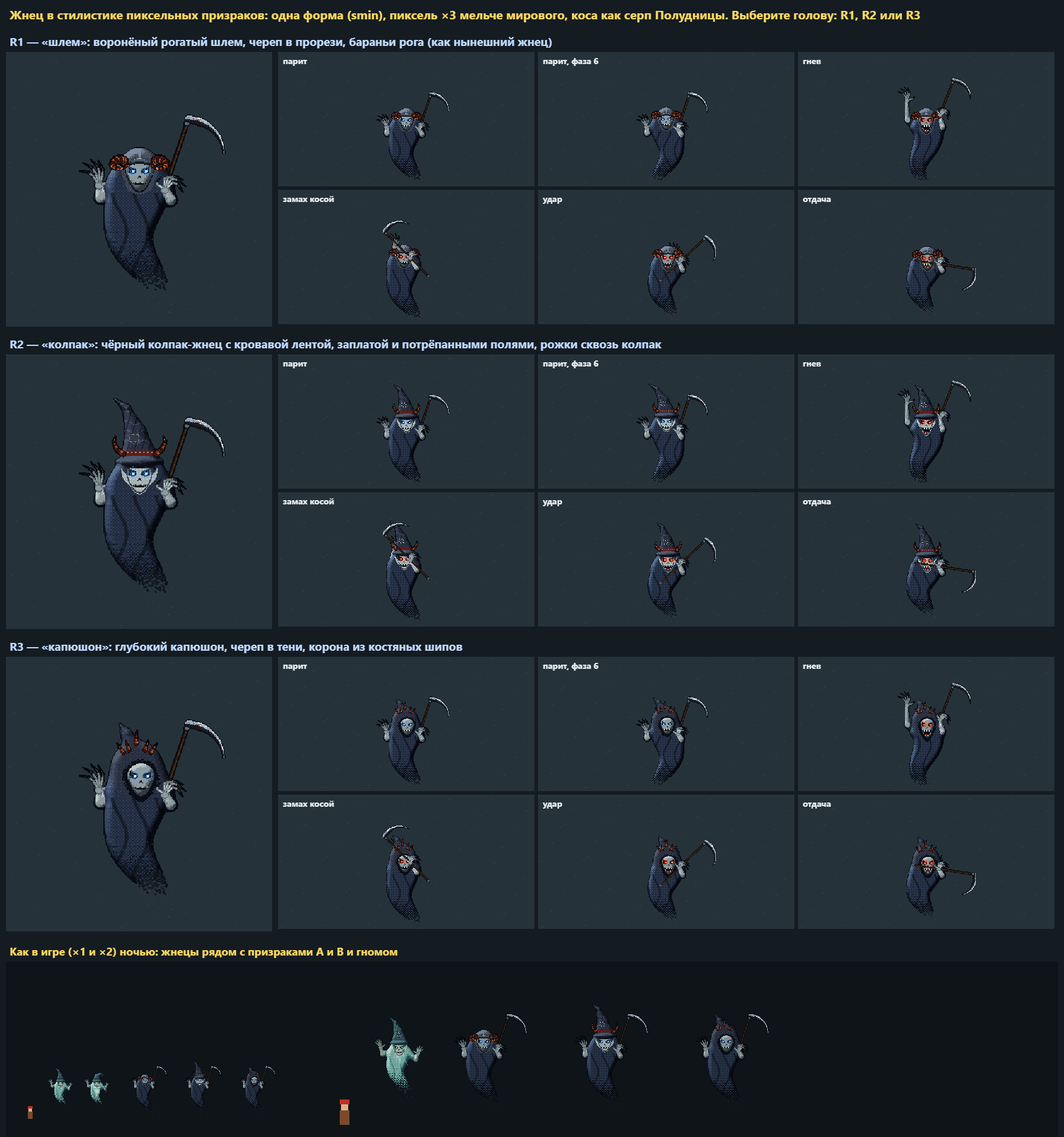
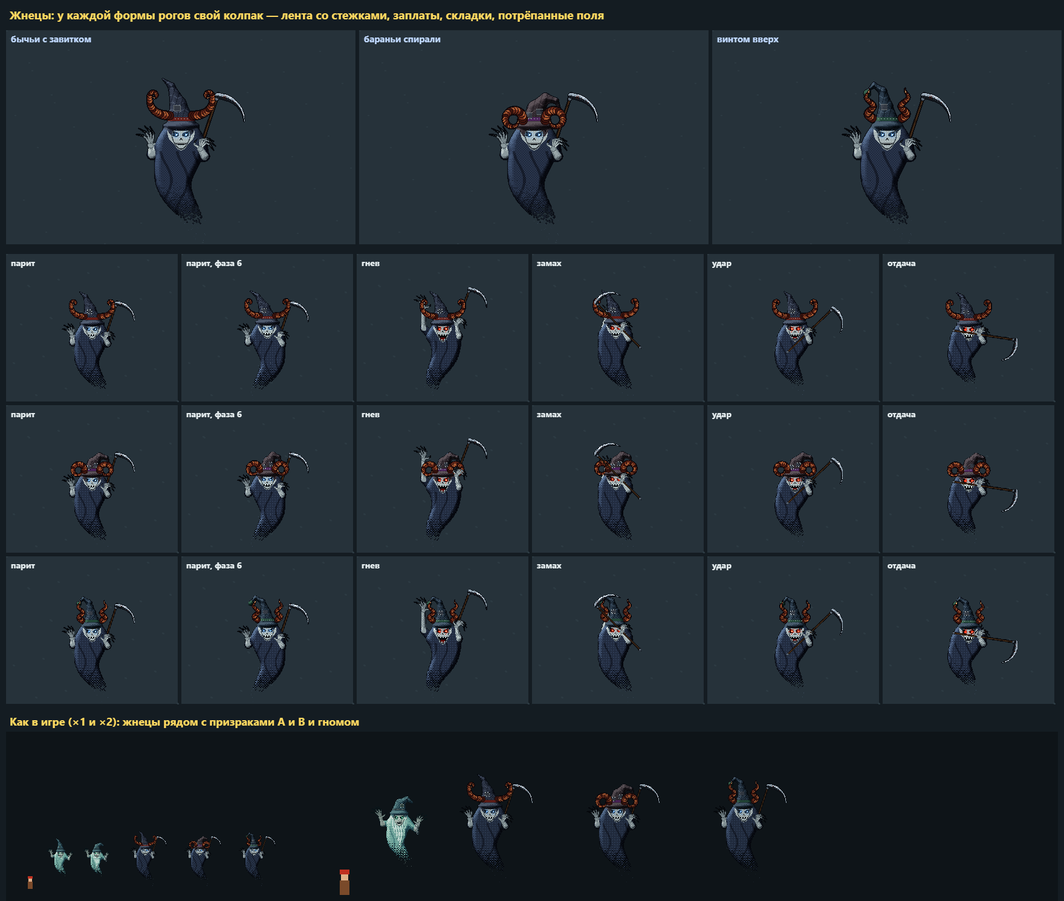
Жнецы в игре в пиксельном облике: у всех колпак, у каждой из трёх форм рогов свой (бычьи — высокий острый, бараньи — мягкий свисающий, винтом — с крюком и помпоном); бараньи спирали разогнуты; шлем без перегородки остался только в коде листа

diff --git a/js/world/reaperpx.js b/js/world/reaperpx.js
@@ -8,7 +8,8 @@
 //   R2 — «колпак»: высокий чёрный колпак-жнец с лентой, заплатой и потрёпанными полями (как у призраков), рожки сквозь колпак;
 //   R3 — «капюшон»: глубокий капюшон, череп в тени, над ним — корона из костяных шипов.
 // mood: 'idle' | 'boo' | 'atk'; p — фаза парения 0..1; k — ход взмаха 0..1 (замах 0–.35, удар .35–.6, отдача).
-// Пока только лист на согласование: в index.html не подключён.
+// Владелец выбрал: у всех жнецов колпак (R2), у каждой из трёх форм рогов (g.var) — свой колпак; шлем R1 и капюшон R3 не в игре.
+// В игре рисуется из drawGhosts (ghosts.js), R3 пока не в игре.
 
 const RPX = {
   RB: [[4, 6, 12], [10, 14, 24], [20, 26, 40], [34, 44, 64], [56, 72, 100], [90, 114, 148]],      // ряса: чёрно-синяя, холодный край
@@ -16,6 +17,10 @@ const RPX = {
   HM: [[6, 8, 12], [20, 24, 32], [42, 48, 60], [72, 82, 98], [124, 140, 160]],                    // шлем: воронёный
   CAP: [[6, 8, 14], [16, 20, 30], [30, 36, 50], [50, 58, 76], [80, 92, 112]],
   BAND: [[30, 6, 8], [64, 14, 14], [100, 28, 22], [140, 48, 34]],                                  // лента на колпаке — запёкшаяся кровь
+  BAND2: [[22, 8, 30], [46, 18, 58], [76, 34, 90], [110, 60, 124]],                                // лиловая
+  BAND3: [[8, 22, 18], [18, 44, 36], [34, 70, 56], [58, 100, 80]],                                  // тёмно-зелёная
+  CAP2: [[10, 8, 10], [22, 18, 22], [38, 32, 38], [60, 52, 58], [92, 82, 88]],                     // бурая чернь
+  CAP3: [[4, 8, 12], [12, 20, 28], [24, 36, 48], [42, 58, 74], [72, 92, 110]],                      // сине-чёрный
   PATCH: [[18, 20, 26], [32, 36, 44], [52, 58, 68], [78, 86, 98]],
   HORN: [[24, 8, 8], [60, 20, 14], [110, 44, 26], [170, 90, 50], [230, 170, 110]],
   VO: [[2, 4, 8], [8, 12, 20], [16, 22, 34]],
@@ -26,7 +31,7 @@ const RPX = {
   EDGE: [2, 4, 10],
 };
 
-function reaperPx(v, mood, p = 0, k = 0) {
+function reaperPx(v, mood, p = 0, k = 0, hv = 0) {
   const K = fzPxKit(243, 309, 120, 129), { P, R, L, dth, hsh } = K, TAU = Math.PI * 2, { RB, BO, VO, IR, WD, CL } = RPX;
   const atk = mood === 'atk', boo = mood === 'boo' || atk;
   const sn = (m, o = 0) => Math.sin(p * TAU * m + o), sm = x => x * x * (3 - 2 * x);
@@ -41,6 +46,18 @@ function reaperPx(v, mood, p = 0, k = 0) {
     return (Math.hypot(dx, dy) - 1) * 12;
   };
   const ell = DS_ell, cap = DS_cap, tip = sn(1, 0.6) * 7 + lean * 0.4;
+  // колпак жнеца — свой у каждой формы рогов (образец — колпаки призраков: лента со стежками, заплата, складки, потрёпанные поля):
+  //  hv 2 бычьи с завитком — высокий острый, кончик загнут назад, кровавая лента;
+  //  hv 0 бараньи спирали — мягкий, кончик свисает вперёд, широкие поля, лиловая лента, две заплаты;
+  //  hv 1 винтом вверх — узкий, между рогами, кончик крюком назад и вниз, помпон, тёмно-зелёная лента
+  const CP = [
+    { cone: [[HX, HY - 14, 25], [HX + 3, HY - 40, 14], [HX + 16 + tip * 0.6, HY - 58, 8], [HX + 32 + tip, HY - 54, 4], [HX + 38 + tip, HY - 42, 1.5]], brim: 33,
+      patch: [[HX + 9, HY - 36], [HX - 9, HY - 30]], band: RPX.BAND2, fab: RPX.CAP2 },
+    { cone: [[HX, HY - 15, 21], [HX - 3 + tip * 0.2, HY - 44, 11], [HX - 10 + tip * 0.6, HY - 70, 6], [HX - 26 + tip, HY - 80, 3.5], [HX - 36 + tip, HY - 70, 2]], brim: 26,
+      patch: [[HX - 5, HY - 44]], band: RPX.BAND3, fab: RPX.CAP3, bob: [HX - 37 + tip, HY - 66] },
+    { cone: [[HX, HY - 15, 24], [HX - 6 + tip * 0.3, HY - 48, 13], [HX - 20 + tip, HY - 78, 5], [HX - 36 + tip * 1.5, HY - 90, 1]], brim: 30,
+      patch: [[HX - 7 + tip * 0.15, HY - 42]], band: RPX.BAND, fab: RPX.CAP },
+  ][hv];
 
   // ---- ось рясы: плечи → длинный хвост
   const tailLen = 150 - 20 * strike, N = 14, spine = [];
@@ -121,10 +138,11 @@ function reaperPx(v, mood, p = 0, k = 0) {
     parts.push({ f: (x, y) => Math.max(faceF(x, y), HY - 9 - y) - 1, mat: 'void', zone: true });
   } else if (v === 'R2') {
     parts.push({ f: ell(HX, HY - 2, 22, 22), mat: 'bo', k: 6 }, { f: faceF, mat: 'bo', k: 4 });
-    parts.push(...DS_chain([[HX, HY - 15, 24], [HX - 6 + tip * 0.3, HY - 48, 13], [HX - 20 + tip, HY - 78, 5], [HX - 36 + tip * 1.5, HY - 90, 1]], { mat: 'cap', k: 3 }));
-    parts.push({ f: ell(HX, HY - 12, 30, 9), mat: 'cap', k: 2, front: true, fw: 3 });
-    parts.push({ f: (x, y) => Math.max(DS_ell(HX, HY - 15, 25, 40)(x, y), Math.abs(y - HY + 24) - 3), mat: 'band', zone: true });
-    parts.push({ f: (x, y) => Math.max(Math.abs(x - HX + 7 - tip * 0.15) - 6, Math.abs(y - HY + 42) - 5), mat: 'patch', zone: true });
+    parts.push(...DS_chain(CP.cone, { mat: 'cap', k: 3 }));
+    parts.push({ f: ell(HX, HY - 12, CP.brim, 9), mat: 'cap', k: 2, front: true, fw: 3 });
+    parts.push({ f: (x, y) => Math.max(DS_ell(HX, HY - 15, 26, 40)(x, y), Math.abs(y - HY + 24) - 3), mat: 'band', zone: true });
+    for (const [px, py] of CP.patch) parts.push({ f: (x, y) => Math.max(Math.abs(x - px) - 6, Math.abs(y - py) - 5), mat: 'patch', zone: true });
+    if (CP.bob) parts.push({ f: ell(CP.bob[0], CP.bob[1], 6, 6), mat: 'band', k: 2, front: true, fw: 3 });
     parts.push({ f: (x, y) => Math.max(faceF(x, y), HY - 5 - y), mat: 'bo', zone: true });
   } else {
     parts.push({ f: ell(HX - 3, HY - 5, 33, 36), mat: 'cap', k: 9 });
@@ -141,41 +159,45 @@ function reaperPx(v, mood, p = 0, k = 0) {
     }
     if (mat === 'cap' && v === 'R3') { const d = faceF(x, y); if (d > 0 && d < 6 && hsh(Math.floor(x / 2) + y * 0.3) > 0.55) return ramp[0]; }
     if (mat === 'band') return Math.round(cy + 24) === 0 && ((x + 60) % 5) < 2 ? BO[2] : null;
-    if (mat === 'patch') { const ex = Math.abs(x - HX + 7 - tip * 0.15), ey = Math.abs(y - HY + 42); return ex > 5 || ey > 4 ? (((x + y) & 1) ? BO[3] : ramp[0]) : null; }
-    if (mat === 'hm') {                                                                // шлем: гребень посередине, заклёпки по ободу
-      if (Math.abs(cx) < 1.5 && cy < -10) return ramp[Math.min(ramp.length - 1, idx + 1)];
+    if (mat === 'patch') { const [px, py] = CP.patch.reduce((a, q) => Math.hypot(x - q[0], y - q[1]) < Math.hypot(x - a[0], y - a[1]) ? q : a), ex = Math.abs(x - px), ey = Math.abs(y - py); return ex > 5 || ey > 4 ? (((x + y) & 1) ? BO[3] : ramp[0]) : null; }
+    if (mat === 'hm') {                                                                // шлем: заклёпки по ободу
       if (Math.abs(cy + 8) < 1 && Math.abs(cx) > 12 && Math.abs(cx) < 20 && (x & 3) === 0) return RPX.IR[3];
     }
     return null;
   };
-  DS_body(K, parts, { rb: RB, bo: BO, cap: RPX.CAP, band: RPX.BAND, patch: RPX.PATCH, hm: RPX.HM, void: VO }, { bb: [-120, -128, 121, 179], W: 10, k: 6, amb: 0.14, mat: 'rb', cut, tex });
+  DS_body(K, parts, { rb: RB, bo: BO, cap: CP.fab, band: CP.band, patch: RPX.PATCH, hm: RPX.HM, void: VO }, { bb: [-120, -128, 121, 179], W: 10, k: 6, amb: 0.14, mat: 'rb', cut, tex });
 
   // ---- череп в прорези шлема (R1) или в глубине капюшона (R3)
   if (v !== 'R2') DS_body(K, [{ f: ell(FX, FY - 4, 15, 13), mat: 'bo' }, { f: faceF, mat: 'bo', k: 4 }],
     { bo: BO.slice(0, 4) }, { bb: [-50, -50, 50, 60], W: 6, k: 4, amb: 0.1, mat: 'bo' });
-  if (v === 'R1') R(FX - 26, HY - 26, FX + 26, HY - 6, (x, y) => {                     // нахмуренный козырёк шлема поверх черепа
-    const d = ell(HX, HY - 2, 23, 25)(x, y);
-    return d < 0 && y < HY - 7 + Math.abs(x - HX) * 0.18 && y > HY - 13 + Math.abs(x - HX) * 0.18 ? (y < HY - 10 + Math.abs(x - HX) * 0.18 ? RPX.HM[3] : RPX.HM[1]) : null;
-  });
   // кромка лица
   R(FX - 22, HY - 8, FX + 22, FY + 32 + drop, (x, y) => { const d = faceF(x, y); return d > -1.2 && d <= 0 && y > HY - 6 ? BO[0] : null; });
 
-  // ---- рога: R1 — бараньи, загнутые к щекам; R2 — короткие рожки сквозь колпак; R3 — корона костяных шипов
+  // ---- рога: три формы (hv, как g.var у векторного жнеца) — 0 бараньи спирали, 1 винтом вверх, 2 бычьи с завитком на конце;
+  // у шлема (R1) крупные, у колпака (R2) торчат сквозь колпак и закручены сильнее; R3 — корона костяных шипов
   const horn = (pts, r0) => {
     const H = RPX.HORN, n = pts.length - 1;
-    K.path(pts.map((q, i) => [q[0], q[1], r0 * Math.pow(1 - i / n, 0.8) + 0.4]), (t, e, sd) => e ? H[0] : (Math.floor(t * 18) % 3 === 0 ? H[1] : t > 0.8 ? H[4] : sd > 0 ? H[2] : H[3]));
+    K.path(pts.map((q, i) => [q[0], q[1], r0 * Math.pow(1 - i / n, 0.75) + 0.5]), (t, e, sd) => e ? H[0] : (Math.floor(t * 22) % 3 === 0 ? H[1] : t > 0.82 ? H[4] : sd > 0 ? H[2] : H[3]));
   };
+  const curl = v === 'R2' ? 1.45 : 1, HS = v === 'R2' ? 1.1 : 1.25;                    // закрут и размер
   for (const s of [-1, 1]) {
-    if (v === 'R1') {
-      const b = [HX + s * 20, HY - 10], pts = [];
-      for (let i = 0; i <= 14; i++) { const t = i / 14, a = -Math.PI / 2 + s * (0.3 + t * 4.2), r = 10 + t * 10; pts.push([b[0] + s * 14 * t + Math.cos(a) * r * t * 1.2, b[1] - 4 * t + Math.sin(a) * r * t]); }
-      horn(pts, 6.5);
-    } else if (v === 'R2') {
-      const b = [HX + s * 20, HY - 22];
-      horn([b, [b[0] + s * 8, b[1] - 6], [b[0] + s * 12, b[1] - 15], [b[0] + s * 10, b[1] - 22]], 3.6);
-    } else for (const j of [0.7, 1.2]) {
-      const a = -Math.PI / 2 + s * j * 0.5, b = [HX - 3 + s * j * 14, HY - 34 + j * 6];
-      horn([b, [b[0] + Math.cos(a) * 7, b[1] + Math.sin(a) * 7], [b[0] + Math.cos(a) * 14, b[1] + Math.sin(a) * 14]], 2.8);
+    if (v === 'R3') {
+      for (const j of [0.7, 1.2]) { const a = -Math.PI / 2 + s * j * 0.5, b = [HX - 3 + s * j * 14, HY - 34 + j * 6]; horn([b, [b[0] + Math.cos(a) * 7, b[1] + Math.sin(a) * 7], [b[0] + Math.cos(a) * 14, b[1] + Math.sin(a) * 14]], 2.8); }
+      continue;
+    }
+    const b = v === 'R1' ? [HX + s * 19, HY - 9] : [HX + s * 19, HY - 25], pts = [];
+    if (hv === 0) {                                                                     // баранья спираль: вверх, наружу и вниз к щеке, тугой завиток
+      const c0 = [b[0] + s * 13 * HS, b[1] + 3 * HS], th0 = s > 0 ? Math.PI : 0, r0 = Math.hypot(b[0] - c0[0], b[1] - c0[1]);
+      for (let i = 0; i <= 26; i++) { const t = i / 26, th = th0 + s * t * Math.PI * 2 * (v === 'R2' ? 1.05 : 1.15), r = r0 * (1 - 0.55 * t) + 6 * HS * Math.sin(t * Math.PI) * (1 - t); pts.push([c0[0] + Math.cos(th) * r, c0[1] + Math.sin(th) * r]); }
+      horn(pts, 7 * HS);
+    } else if (hv === 1) {                                                              // винтом вверх: высокие, витые
+      for (let i = 0; i <= 22; i++) { const t = i / 22; pts.push([b[0] + s * (5 + 8 * t + Math.sin(t * Math.PI * 2.5 * curl) * 6 * (1 - t * 0.5)) * HS, b[1] - 46 * t * HS]); }
+      horn(pts, 6 * HS);
+    } else {                                                                            // бычьи: вбок, вверх и завиток внутрь на конце
+      for (let i = 0; i <= 14; i++) { const t = i / 14; pts.push([b[0] + s * (30 * Math.sin(t * Math.PI * 0.55)) * HS, b[1] - (4 + 30 * t * t) * HS]); }
+      const e = pts[pts.length - 1], c0 = [e[0] - s * 6 * HS, e[1]];
+      for (let i = 1; i <= 12; i++) { const t = i / 12, th = (s > 0 ? 0 : Math.PI) - s * t * Math.PI * 1.3 * curl, r = 6 * HS * (1 - 0.6 * t); pts.push([c0[0] + Math.cos(th) * r, c0[1] + Math.sin(th) * r]); }
+      horn(pts, 6.5 * HS);
     }
   }
   if (v === 'R3') horn([[HX - 4, HY - 38], [HX - 4, HY - 46], [HX - 3, HY - 54]], 3);
@@ -218,6 +240,21 @@ function reaperPx(v, mood, p = 0, k = 0) {
   K.outline(RPX.EDGE);
   return K.done();
 }
-function reaperPxSprite(v, mood, f, n) {
-  return fzPxSprite('rp' + v + mood + f + '_' + n, 81, 103, 40, 43, () => reaperPx(v, mood, mood === 'atk' ? 0 : f / n, mood === 'atk' ? f / (n - 1) : 0));
+// Кадры: парение 12 (10 к/с, как у призраков), гнев 9, взмах косой 9. hv — форма рогов 0..2.
+const RPX_N = { idle: 12, boo: 9, atk: 9 };
+function reaperPxSprite(v, mood, f, n = RPX_N[mood], hv = 0) {
+  f = Math.max(0, Math.min(n - 1, f | 0));
+  return fzPxSprite('rp' + v + mood + f + '_' + n + 'h' + hv, 81, 103, 40, 43, () => reaperPx(v, mood, mood === 'atk' ? 0 : f / n, mood === 'atk' ? f / (n - 1) : 0, hv));
+}
+// кадр для игры по бюджету новых спрайтов (как ghostPxFrame)
+const RPX_LAST = new WeakMap();
+function reaperPxFrame(g, v, mood, f, hv) {
+  f = Math.max(0, Math.min(RPX_N[mood] - 1, f | 0));
+  const have = FZ_CVC['rp' + v + mood + f + '_' + RPX_N[mood] + 'h' + hv], last = RPX_LAST.get(g);
+  if (have) { RPX_LAST.set(g, have); return have; }
+  if (last && typeof spriteBudgetOk === 'function' && !spriteBudgetOk(true)) return last;
+  const t0 = performance.now(), cv = reaperPxSprite(v, mood, f, RPX_N[mood], hv);
+  if (typeof spriteSpent === 'function') spriteSpent(t0);
+  RPX_LAST.set(g, cv);
+  return cv;
 }

diff --git a/tools/pxghost/reaper.html b/tools/pxghost/reaper.html
@@ -7,42 +7,39 @@
 <script src="../../js/world/ghostpx.js"></script>
 <script src="../../js/world/reaperpx.js"></script>
 <script>
-// Лист согласования жнеца в стилистике пиксельных призраков: три головы (R1 шлем, R2 колпак, R3 капюшон), крупно ×4 и позы ×2,
-// внизу — рядом с призраками A и B и гномом. Снимок: node tools/pxghost/shot.js out.png reaper.html
+// Лист жнецов: у всех колпак, у каждой формы рогов свой (0 бараньи спирали — мягкий свисающий, 1 винтом вверх — с крюком и помпоном,
+// 2 бычьи с завитком — высокий острый). Крупно ×3, ниже позы всех троих ×2 и масштаб как в игре. Снимок: node tools/pxghost/shot.js out.png reaper.html
 try {
-const VS = [['R1', 'R1 — «шлем»: воронёный рогатый шлем, череп в прорези, бараньи рога (как нынешний жнец)'],
-  ['R2', 'R2 — «колпак»: чёрный колпак-жнец с кровавой лентой, заплатой и потрёпанными полями, рожки сквозь колпак'],
-  ['R3', 'R3 — «капюшон»: глубокий капюшон, череп в тени, корона из костяных шипов']];
-const POSES = [['idle', 0, 'парит'], ['idle', 6, 'парит, фаза 6'], ['boo', 3, 'гнев'], ['atk', 2, 'замах косой'], ['atk', 4, 'удар'], ['atk', 7, 'отдача']];
-const W = 1760, RH = 500, cv = document.getElementById('cv');
-cv.width = W; cv.height = 50 + VS.length * RH + 330;
+const HN = ['бараньи спирали', 'винтом вверх', 'бычьи с завитком'];
+const W = 1760, cv = document.getElementById('cv');
+cv.width = W; cv.height = 50 + 360 + 3 * 250 + 330;
 const c = cv.getContext('2d'); c.imageSmoothingEnabled = false;
 c.fillStyle = '#141c22'; c.fillRect(0, 0, W, cv.height);
 const T = (s, x, y, sz = 20, col = '#e6eef0') => { c.fillStyle = col; c.font = `bold ${sz}px Segoe UI, sans-serif`; c.fillText(s, x, y); };
 const cell = (x, y, w, h) => { c.fillStyle = '#26323a'; c.fillRect(x, y, w, h); c.fillStyle = '#2c3a42'; for (let i = 0; i < 50; i++) c.fillRect(x + (i * 37 % w), y + (i * 53 % h), 3, 2); };
 const put = (spr, x, y, Z, a = 1) => { const [ox, oy, w, h] = spr.fzO; c.save(); c.globalAlpha = a; c.imageSmoothingEnabled = false; c.translate(x, y); c.drawImage(spr, -ox * Z, -oy * Z, w * Z, h * Z); c.restore(); };
-const R = (v, m, f) => reaperPxSprite(v, m, f, m === 'atk' ? 9 : 12);
-T('Жнец в стилистике пиксельных призраков: одна форма (smin), пиксель ×3 мельче мирового, коса как серп Полудницы. Выберите голову: R1, R2 или R3', 16, 32, 20, '#ffd860');
-VS.forEach(([v, name], r) => {
-  const y0 = 50 + r * RH;
-  T(name, 16, y0 + 26, 19, '#bfd8ff');
-  cell(10, y0 + 36, 440, 454); put(R(v, 'idle', 0), 230, y0 + 36 + 43 * 4 + 20, 4);
-  POSES.forEach(([m, f, n], i) => {
-    const x = 460 + (i % 3) * 430, y = y0 + 36 + Math.floor(i / 3) * 228;
-    cell(x, y, 424, 222); T(n, x + 8, y + 20, 14); put(R(v, m, f), x + 212, y + 20 + 43 * 2 + 4, 2);
-  });
+const R = (v, m, f, hv) => reaperPxSprite(v, m, f, RPX_N[m], hv);
+T('Жнецы: у каждой формы рогов свой колпак — лента со стежками, заплаты, складки, потрёпанные поля', 16, 32, 19, '#ffd860');
+[2, 0, 1].forEach((hv, i) => {
+  const x = 10 + i * 584, y = 50;
+  cell(x, y, 578, 354); T(HN[hv], x + 8, y + 20, 15, '#bfd8ff'); put(R('R2', 'idle', 0, hv), x + 289, y + 30 + 43 * 3 + 10, 3);
 });
-const yb = 50 + VS.length * RH + 10;
-T('Как в игре (×1 и ×2) ночью: жнецы рядом с призраками A и B и гномом', 16, yb + 20, 18, '#ffd860');
+const POSES = [['idle', 0, 'парит'], ['idle', 6, 'парит, фаза 6'], ['boo', 3, 'гнев'], ['atk', 2, 'замах'], ['atk', 4, 'удар'], ['atk', 8, 'отдача']];
+[['R2', 2], ['R2', 0], ['R2', 1]].forEach(([v, hv], r) => POSES.forEach(([m, f, n], i) => {
+  const x = 10 + i * 290, y = 420 + r * 250;
+  cell(x, y, 284, 244); T(n, x + 8, y + 20, 14); put(R(v, m, f, hv), x + 142, y + 30 + 43 * 2 + 6, 2);
+}));
+const yb = 420 + 3 * 250 + 10;
+T('Как в игре (×1 и ×2): жнецы рядом с призраками A и B и гномом', 16, yb + 20, 18, '#ffd860');
 c.fillStyle = '#0e1418'; c.fillRect(10, yb + 30, W - 20, 290);
 const gn = (x, yy, Z) => { c.fillStyle = '#7a4a2a'; c.fillRect(x - 4 * Z, yy - 12 * Z, 8 * Z, 12 * Z); c.fillStyle = '#e0b088'; c.fillRect(x - 3 * Z, yy - 17 * Z, 6 * Z, 5 * Z); c.fillStyle = '#c03020'; c.fillRect(x - 4 * Z, yy - 21 * Z, 8 * Z, 4 * Z); };
 let x = 50;
 gn(x, yb + 290, 1); x += 50;
 put(ghostPxSprite('A', 'idle', 0), x, yb + 230, 1, 0.85); x += 60; put(ghostPxSprite('B', 'idle', 0), x, yb + 230, 1, 0.85); x += 80;
-for (const [v] of VS) { put(R(v, 'idle', 0), x, yb + 225, 1, 0.9); x += 90; }
+for (const [v, hv] of [['R2', 2], ['R2', 0], ['R2', 1]]) { put(R(v, 'idle', 0, hv), x, yb + 225, 1, 0.9); x += 90; }
 x += 60; gn(x, yb + 300, 2); x += 90;
-put(ghostPxSprite('A', 'idle', 0), x, yb + 170, 2, 0.85); x += 140;
-for (const [v] of VS) { put(R(v, 'idle', 0), x, yb + 160, 2, 0.9); x += 200; }
+put(ghostPxSprite('B', 'idle', 0), x, yb + 170, 2, 0.85); x += 150;
+for (const [v, hv] of [['R2', 2], ['R2', 0], ['R2', 1]]) { put(R(v, 'idle', 0, hv), x, yb + 160, 2, 0.9); x += 210; }
 document.title = 'ready';
 } catch (e) { document.title = 'fail ' + e.message + ' ' + e.stack; }
 </script>

diff --git a/js/world/ghosts.js b/js/world/ghosts.js
@@ -433,7 +433,14 @@ function drawGhosts(c) {
     c.translate(px, py); c.scale(g.face, 1);
     c.globalAlpha = A;
     c.imageSmoothingEnabled = true;
-    if (rp) blitFine(c, reaperSprite(mood === 'atk' ? 'atk' : mood === 'boo' ? 'boo' : 'idle', atk ? Math.min(REAPER_ATK_FRAMES - 1, Math.floor(g.atkT / GHOST_ATK_DUR * REAPER_ATK_FRAMES)) : Math.floor(t * 8 + g.ph * 1.27) % REAPER_FRAMES, g.var || 0), -GHOST_OX * REAPER_SC, -GHOST_OY * REAPER_SC, GHOST_W * REAPER_SC, GHOST_H * REAPER_SC);
+    if (rp && typeof reaperPxFrame === 'function') {
+      // пиксельный жнец (reaperpx.js): рога — одна из трёх форм g.var, у каждой свой колпак
+      const rm = atk ? 'atk' : mood === 'boo' ? 'boo' : 'idle';
+      const rf = atk ? Math.floor(g.atkT / GHOST_ATK_DUR * RPX_N.atk) : Math.floor(t * 10 + g.ph * 1.27) % RPX_N[rm];
+      c.imageSmoothingEnabled = false;
+      c.drawImage(reaperPxFrame(g, 'R2', rm, rf, (g.var || 0) % 3), -40, -43, 81, 103);
+    }
+    else if (rp) blitFine(c, reaperSprite(mood === 'atk' ? 'atk' : mood === 'boo' ? 'boo' : 'idle', atk ? Math.min(REAPER_ATK_FRAMES - 1, Math.floor(g.atkT / GHOST_ATK_DUR * REAPER_ATK_FRAMES)) : Math.floor(t * 8 + g.ph * 1.27) % REAPER_FRAMES, g.var || 0), -GHOST_OX * REAPER_SC, -GHOST_OY * REAPER_SC, GHOST_W * REAPER_SC, GHOST_H * REAPER_SC);
     else if (typeof GHOST_PX !== 'undefined' && GHOST_PX.length && !grab) {
       // пиксельный облик (ghostpx.js, A или B по g.look): гибель по угасанию, вспышка раны, бегство
       const pm = g.slain ? 'die' : Game.time - (g.hurtT || -9) < 0.25 ? 'hurt' : g.mode === 'flee' ? 'flee' : mood;

diff --git a/js/changelog.js b/js/changelog.js
@@ -11,6 +11,7 @@ const CHANGELOG = [
       'Святые силы больше не прогоняют призраков, а снимают им ровно половину здоровья — всем в зоне сразу: молитва по клику, изгнание нежити, оберег, «Чудо», солнце паладина и освящённая земля. Дважды — и призрак развеян',
       'По клику на призрака герой молится, а недобитого добивает в бою. Раненый призрак может удрать — и вернуться за обидчиком',
       'Призрак, которого ударили, бросается на обидчика и студит его когтями — и героя, и рекрутов',
+      'Призраки и жнецы нарисованы заново, мелким пикселем: призраки в колпаках с лентой и заплатой — то гном-мертвец с туманной бородой, то дед с бородой до пояса; жнецы в чёрной рясе с косой — в рогатом шлеме или в колпаке, рога у каждого свои',
     ],
     fixes: [
       'Призраков стало меньше: бывают тихие вечера без них, за вечер выходит один-два, одновременно не больше трёх (было до двенадцати)',

diff --git a/index.html b/index.html
@@ -358,6 +358,7 @@
 <script src="js/world/foeart.js"></script>
 <script src="js/world/pxbeasts.js"></script>
 <script src="js/world/ghostpx.js"></script>
+<script src="js/world/reaperpx.js"></script>
 <script src="js/pccontrols.js"></script>
 <script data-goatcounter="https://lexolas.goatcounter.com/count" async src="https://gc.zgo.at/count.js"></script>
 </body>
